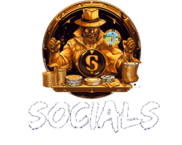
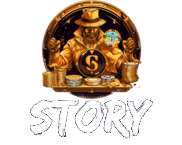
Header Updates

diff --git a/frontend/css/style.css b/frontend/css/style.css
@@ -6853,12 +6853,12 @@ a.metaportal_fn_videobutton:hover .fn__svg,
 }
 
 .logos .default{
-	opacity: .75;
+	/* opacity: .75; */
     transform: scale(.85);
 }
 
 .logos .default:hover{
-	opacity: .85;
+	/* opacity: .85; */
     transform: scale(1);
 }
 
